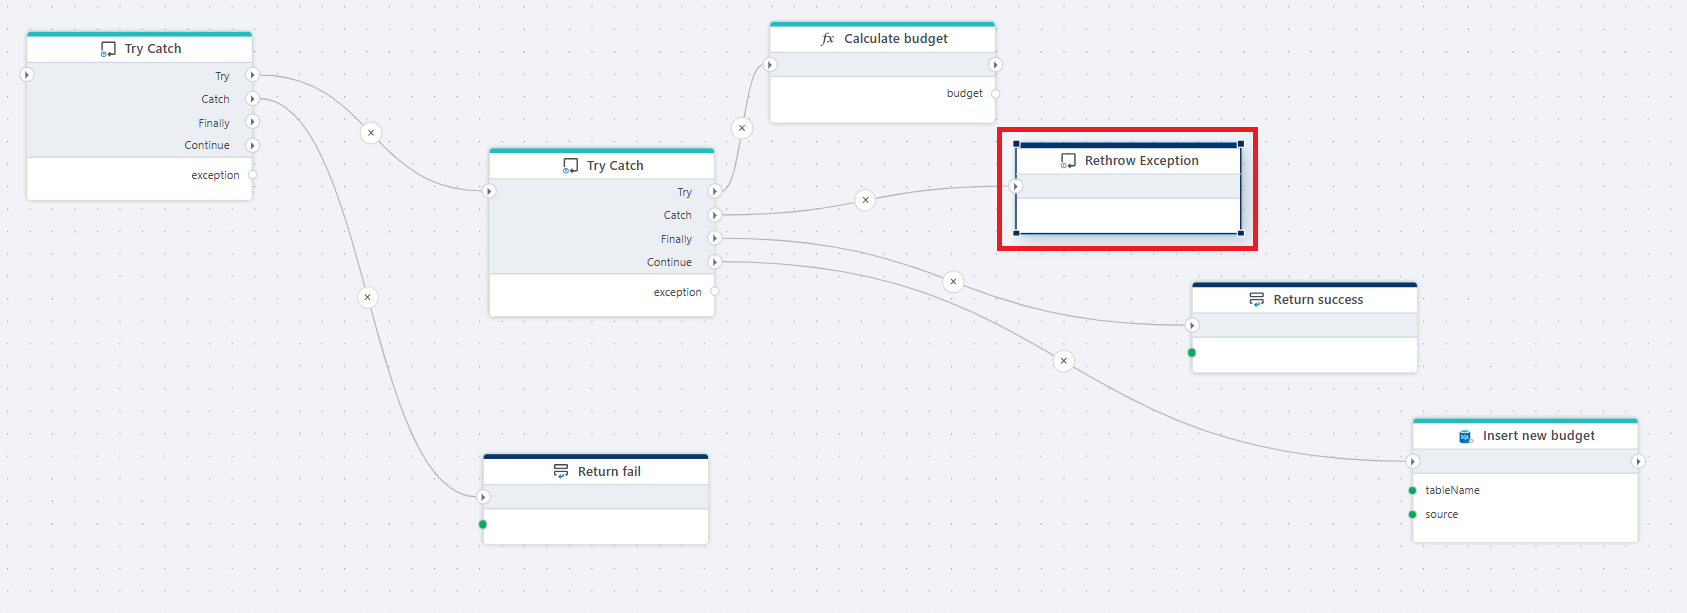
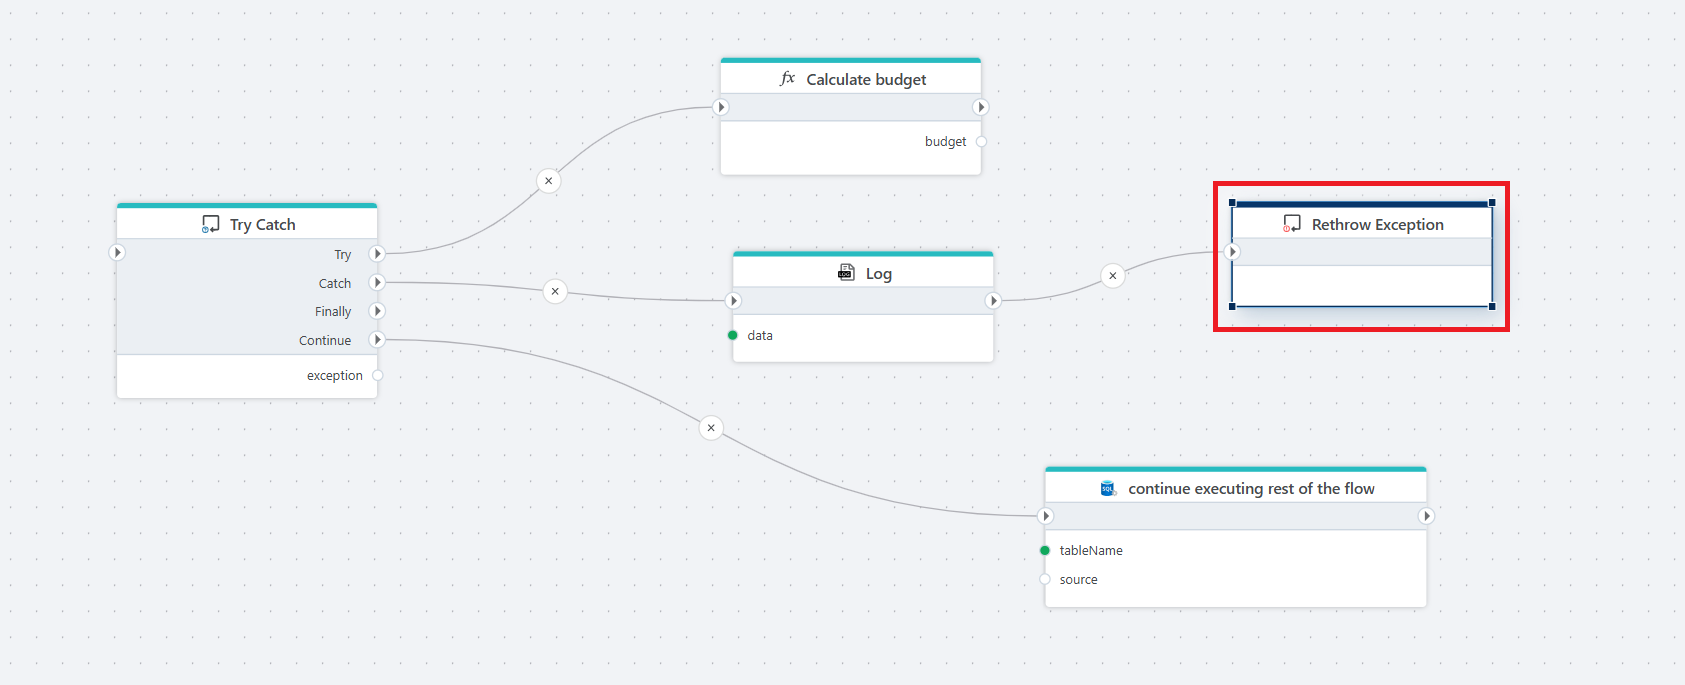
rethrow exeption

diff --git a/articles/flow/actions/built-in/rethrow-exception.md b/articles/flow/actions/built-in/rethrow-exception.md
@@ -7,7 +7,8 @@ Re-throws the exception that is currently being handled by a catch block.
 ![img](../../../../images/flow/rethrow-exeption.png)
 
 **Example** ![img](../../../../images/strz.jpg)  
-This flow executes a budget [calculation](function.md) inside nested [Try/Catch](try-catch.md) blocks. If the calculation completes successfully, the result is returned and the new budget is inserted into the database. If an error occurs during the calculation, the exception is rethrown to stop execution and signal the failure to the calling flow. The flow is intentionally structured to ensure that database insertion only happens after a successful calculation and that errors are not handled silently or converted into partial results.
+This flow executes a budget [calculation](function.md) inside a [Try/Catch](try-catch.md) block to control how errors are handled. On the **Try** path, it runs *Calculate budget*. If the calculation completes successfully, execution continues through the **Continue** output to the rest of the flow. If an exception occurs, execution moves to **Catch**, where the error is written using [Log](log.md). The flow then calls **Rethrow Exception**, which propagates the original error back to the caller instead of handling it locally. Successful executions continue downstream, while failures are explicitly returned to the calling flow.
+
 
 ## Properties
 
